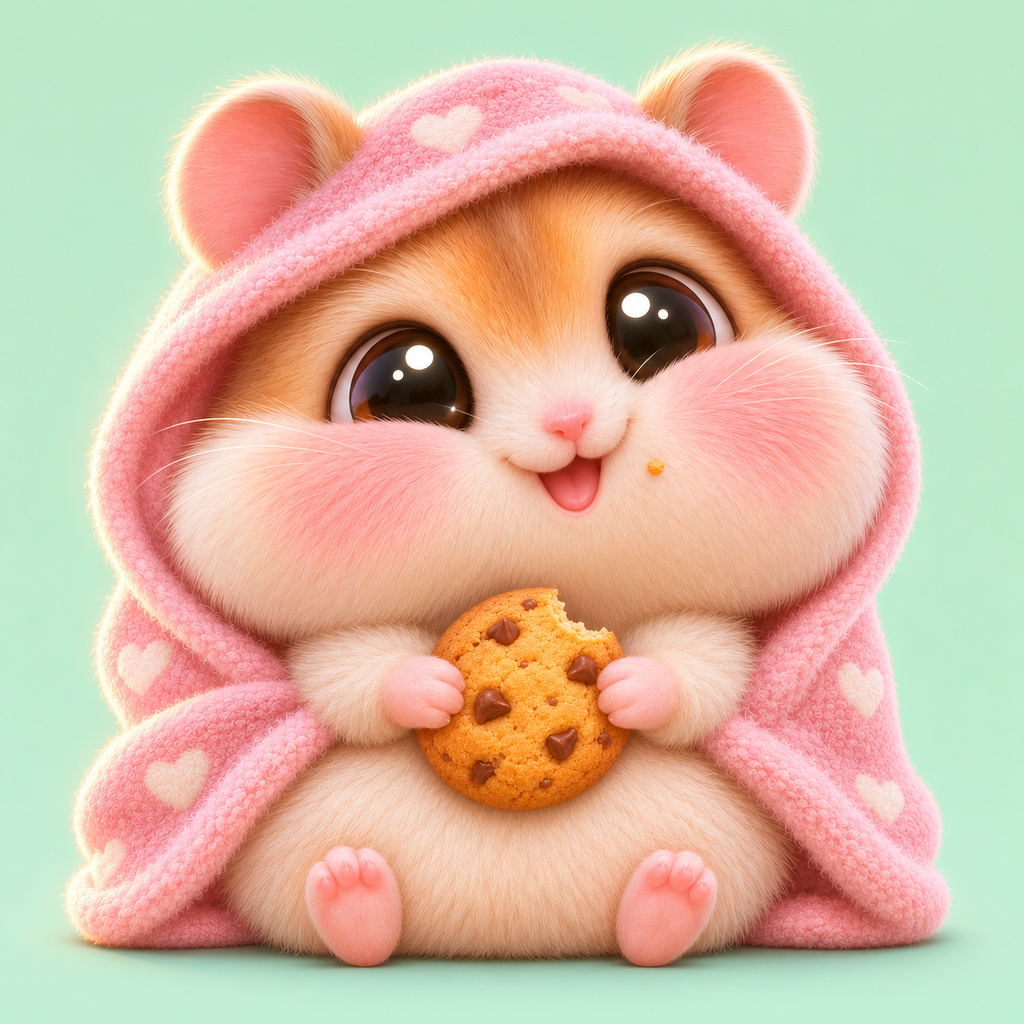
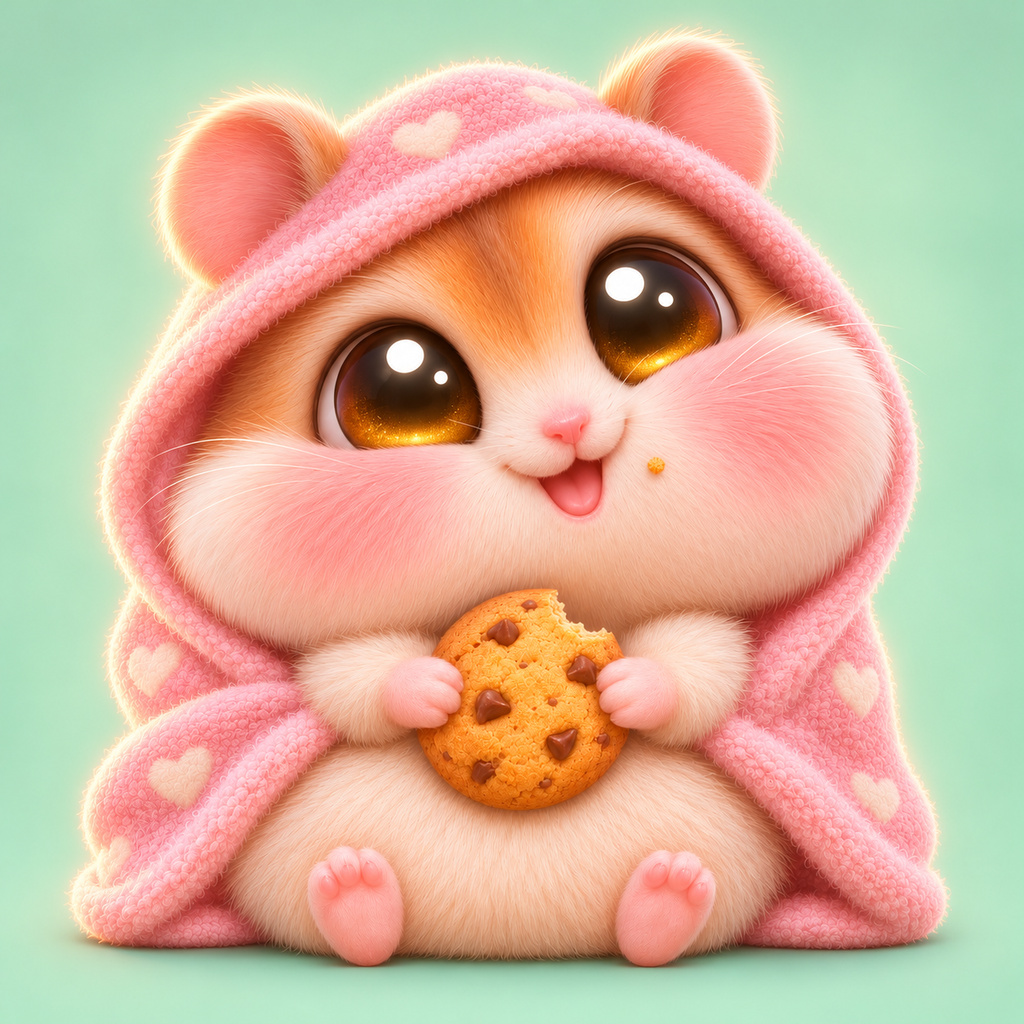
attempt 2031

diff --git a/README.md b/README.md
@@ -24,7 +24,7 @@ refinement passes of the leaders. The candidates played pairwise games under
 the bounty's published judge instructions, each pair in both orders, and this
 picture was the one no other candidate beat. It was then resized to 1024x1024.
 
-`entry.png` holds JPEG data (quality 95, 443,089 bytes): the rules tell the
+`entry.png` holds JPEG data (quality 95, 430,006 bytes): the rules tell the
 format by the first bytes and keep the name `entry.png` either way.
 
 ## Run
